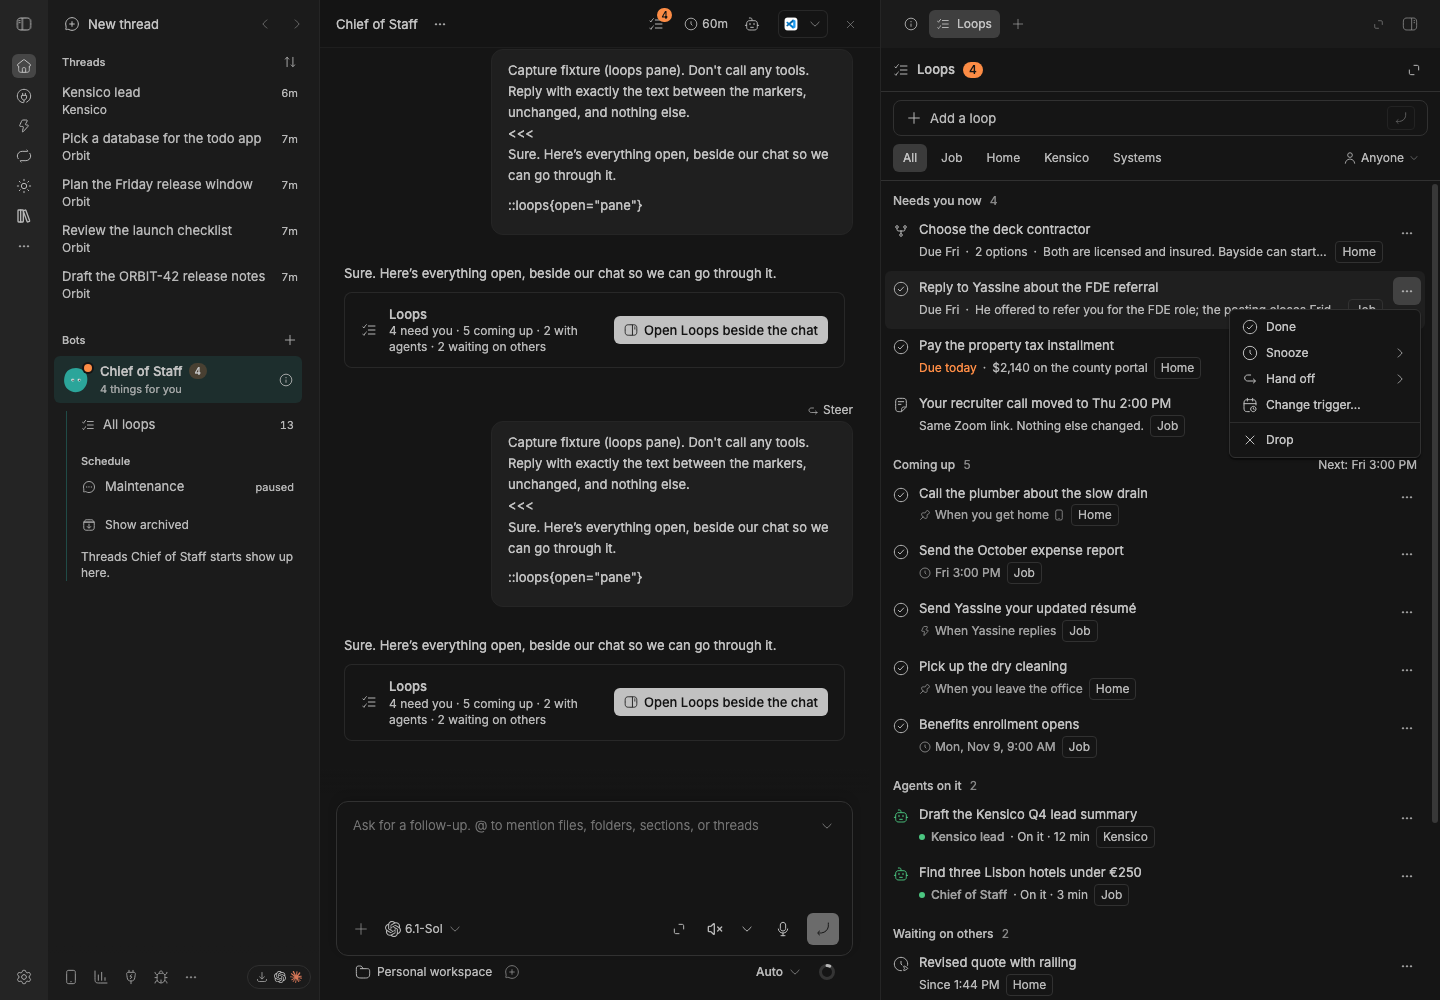
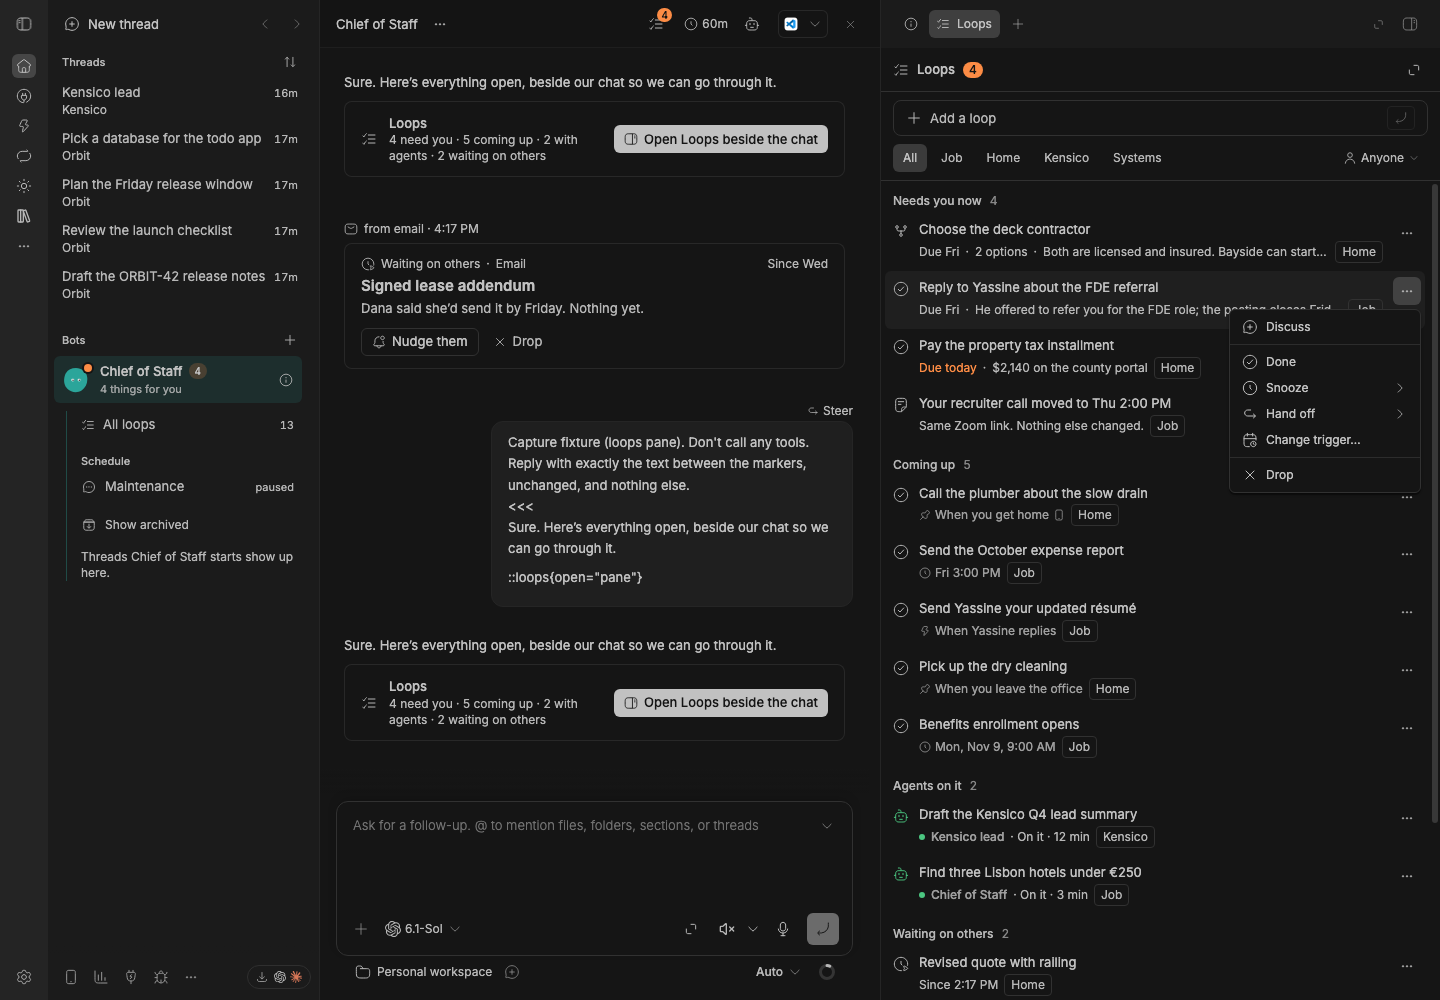
Loops: captures and README renders for Discuss and the row drag
Discuss's chip in the composer, the Bot's real staged reply using the
loop's context, a pane row dragged over the composer and dropped, Discuss
from the Loops tab, and the menu and tab renders that now show Discuss.

diff --git a/packages/bb-studio/README.md b/packages/bb-studio/README.md
@@ -170,7 +170,7 @@ with fixed loops written to its Studio database
 
 ![The morning message: the date, Calendar, then On today's list as compact rows (Pay the property tax installment, Due today; Choose the deck contractor, 2 options; Reply to Yassine, Due Fri; the recruiter call, Read) and "3 more in Loops", then Good to know](assets/loops-morning.png)
 
-![The Bot page's Loops tab beside Info, Loops 4: Add a loop, area chips (All, Job, Home, Kensico, Systems) and Owner: Anyone; Needs you now with the hovered Yassine row showing Done, Snooze, Hand off, Drop and Change trigger; Coming up with each loop's trigger (When you get home, Fri 3:00 PM, When Yassine replies, When you leave the office, Mon Nov 9)](assets/loops-tab.png)
+![The Bot page's Loops tab beside Info, Loops 4: Add a loop, area chips (All, Job, Home, Kensico, Systems) and Owner: Anyone; Needs you now with the hovered Yassine row showing Done, Snooze, Hand off, Drop, Discuss and Change trigger; Coming up with each loop's trigger (When you get home, Fri 3:00 PM, When Yassine replies, When you leave the office, Mon Nov 9)](assets/loops-tab.png)
 
 ![Lower on the Loops tab: Agents on it (Kensico lead and Chief of Staff, each with Open thread), Waiting on others with Since and Nudge them, and Done · last 7 days with Undo](assets/loops-tab-lower.png)
 
@@ -200,13 +200,23 @@ title, why and trigger when you send. You can also drag a row from the pane
 into the composer: it drops the loop's `::loop` line and title as text,
 which the Bot reads the same way.
 
+![Discuss on Reply to Yassine: the Bot chat's composer holds a "Reply to Yassine about the FDE referral" chip, then the question typed after it: Is a two-line yes enough here, or should I ask about the team first?](assets/loops-pane-discuss.png)
+
+![The Bot's real reply in a staged BB to that chip and "Is a two-line yes enough here? Say why in one sentence.": Yes, a two-line yes accepts Yassine's offer and lets him move the referral forward before Friday's deadline. The offer and Friday came from the loop, not the question](assets/loops-pane-discuss-reply.png)
+
+![Choose the deck contractor dragged from the pane over the composer: the row is dimmed while it's dragged. The capture has no drag image](assets/loops-pane-drag.png)
+
+![The same row dropped in the composer: ::loop{id="loop_capture-deck"} and About: Choose the deck contractor, as text](assets/loops-pane-dropped.png)
+
+![Discuss on the Loops tab's Yassine row opened the Bot chat, with Loops beside it, and put the loop's chip in the empty composer](assets/loops-tab-discussed.png)
+
 ![The Bot's chat with the Loops pane open on the right: the chat's header has a Loops button badged 4; the pane has Add a loop, area chips and Anyone, then Needs you now (Choose the deck contractor, Reply to Yassine, Pay the property tax installment, the recruiter call), Coming up with each trigger, and Agents on it. In the chat, the Bot's "Loops" card reads 4 need you · 5 coming up · 2 with agents · 2 waiting on others, with Open Loops beside the chat](assets/loops-pane.png)
 
 ![A row's kind circle hovered in the pane: it shows a check, Mark done](assets/loops-pane-row-hover.png)
 
 ![Reply to Yassine just closed from its circle: struck through, Done · just now, with Undo, still first in Needs you now, which now counts 3](assets/loops-pane-row-done.png)
 
-![The Yassine row's ⋯ menu in the pane: Done, Snooze ›, Hand off ›, Change trigger… and Drop](assets/loops-pane-menu.png)
+![The Yassine row's ⋯ menu in the pane: Discuss, then Done, Snooze ›, Hand off ›, Change trigger… and Drop](assets/loops-pane-menu.png)
 
 ![Change trigger open under "Call the plumber about the slow drain" in the pane: Time, Event, Place and Anytime, Place selected with Home, Office, Mom’s and Gym, Arrive or Leave, and Send to iPhone when it fires checked](assets/loops-pane-trigger.png)
 
